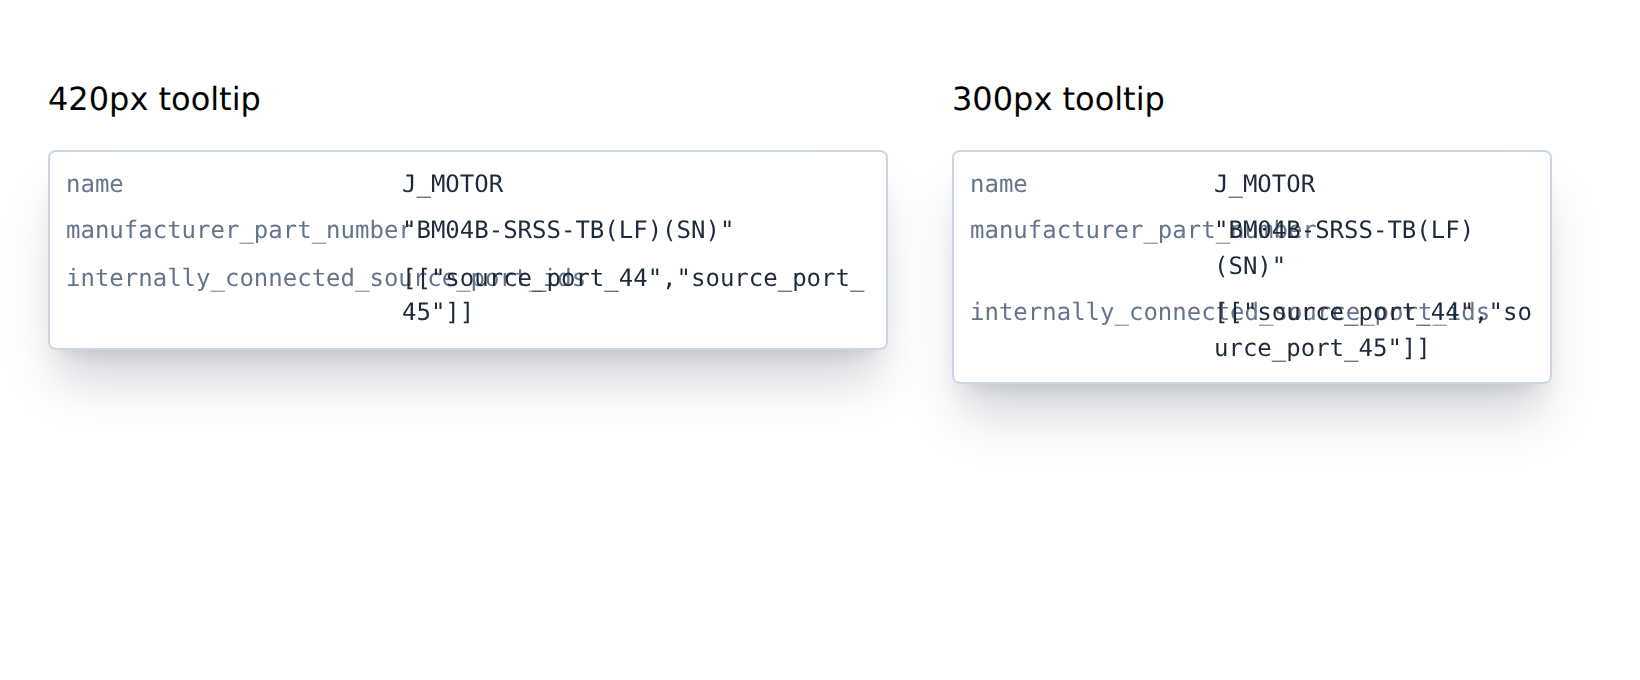
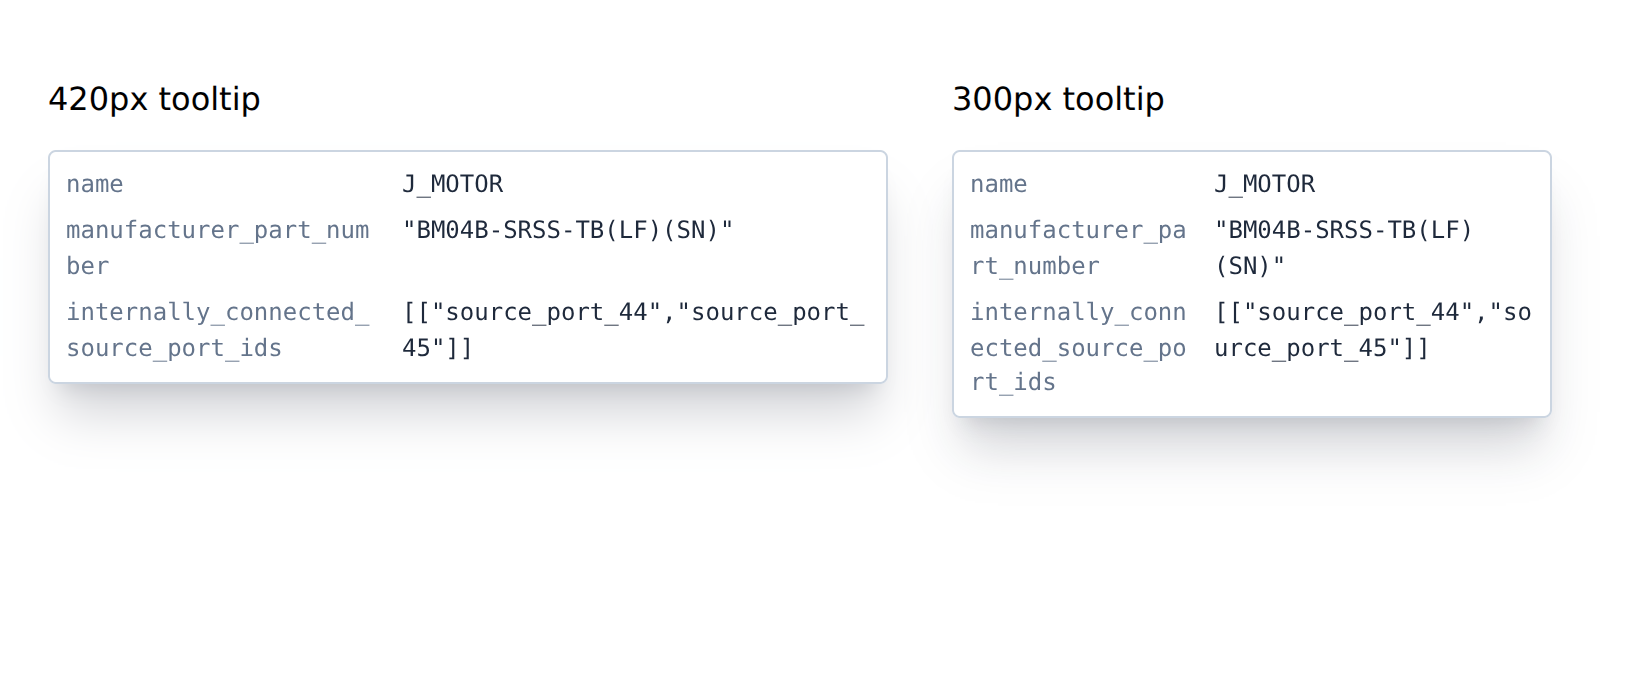
fix: wrap component tooltip labels within their column

diff --git a/lib/components/SchematicComponentDetailsTooltip.tsx b/lib/components/SchematicComponentDetailsTooltip.tsx
@@ -26,11 +26,13 @@ interface Props {
 }
 
 const detailLabelStyle: React.CSSProperties = {
+  minWidth: 0,
   color: "#64748b",
   fontFamily:
     'ui-monospace, SFMono-Regular, Menlo, Monaco, Consolas, "Liberation Mono", monospace',
   fontSize: "12px",
   lineHeight: 1.45,
+  overflowWrap: "anywhere",
 }
 
 export const SchematicComponentDetailsTooltip = ({
